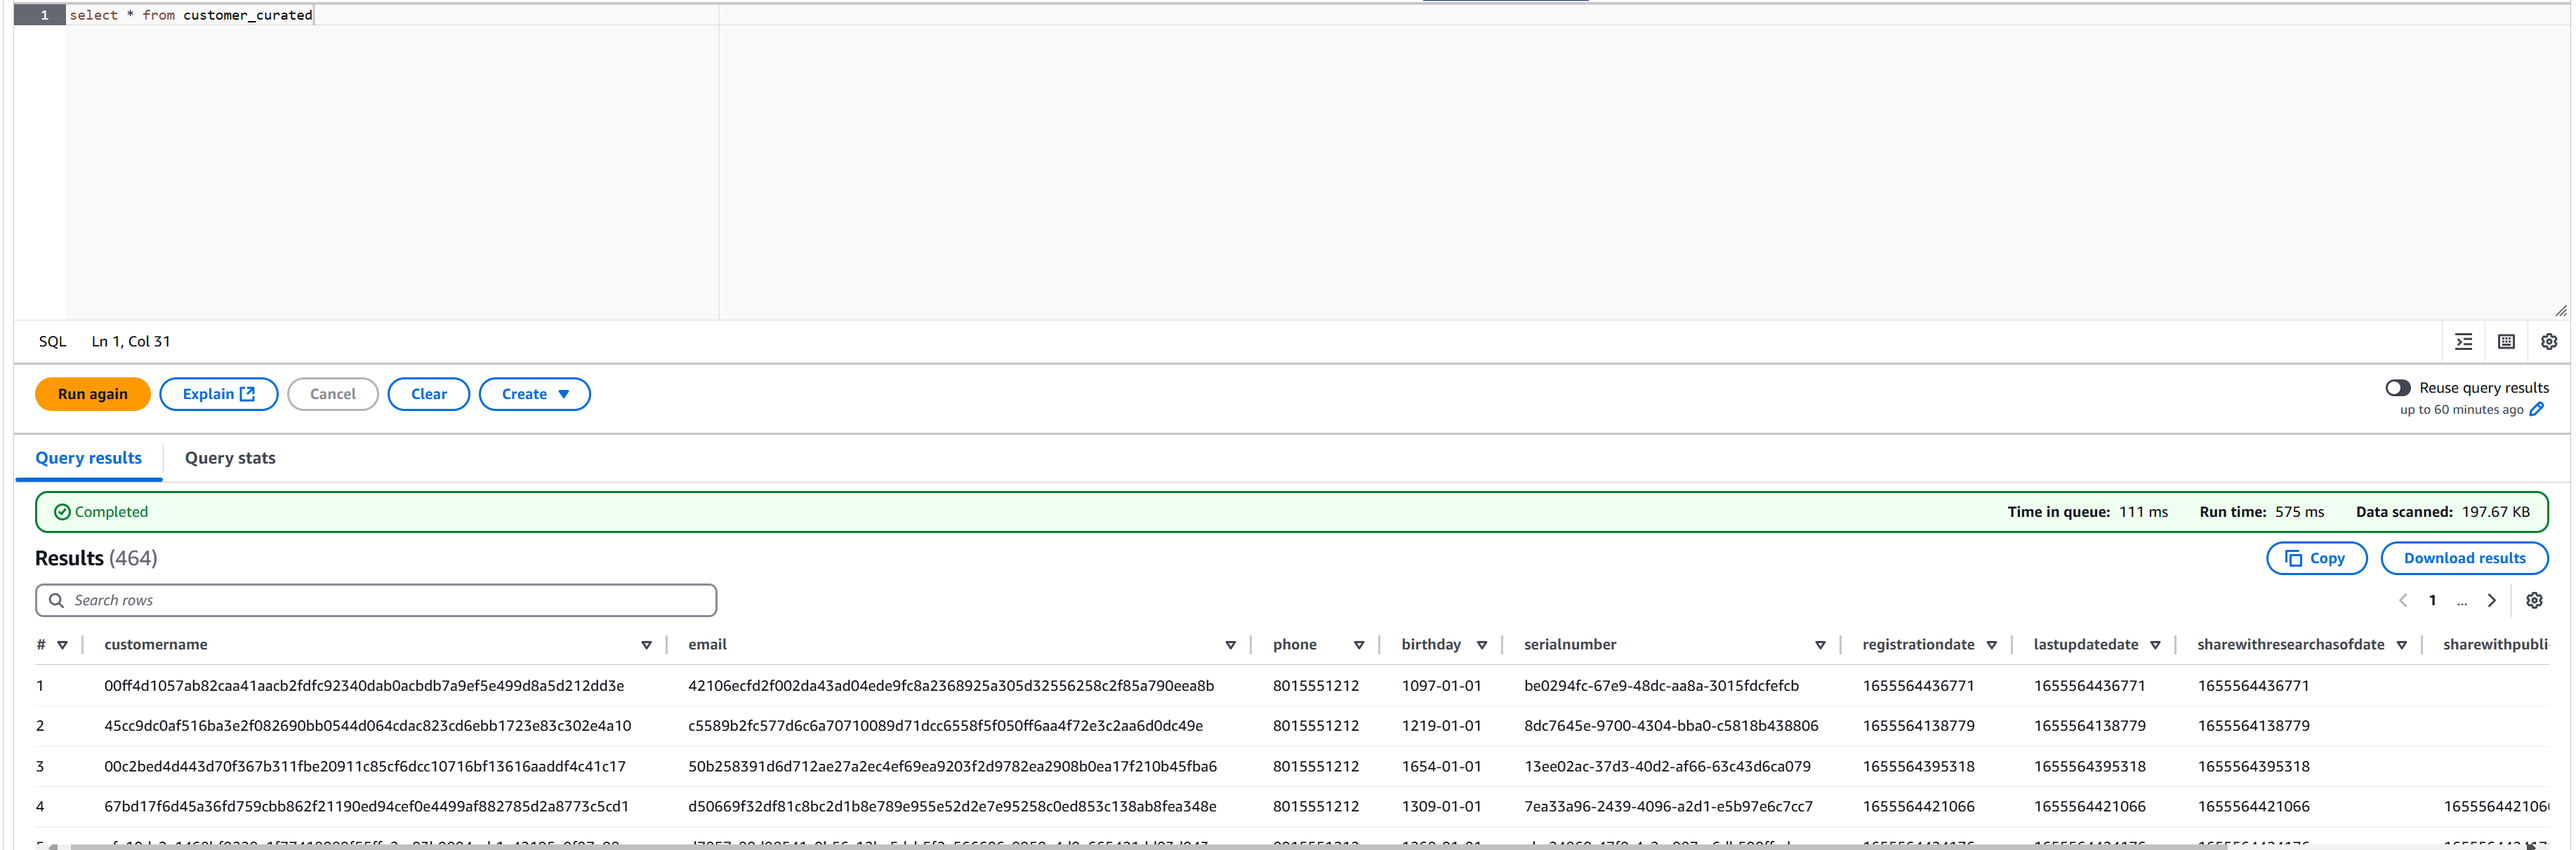
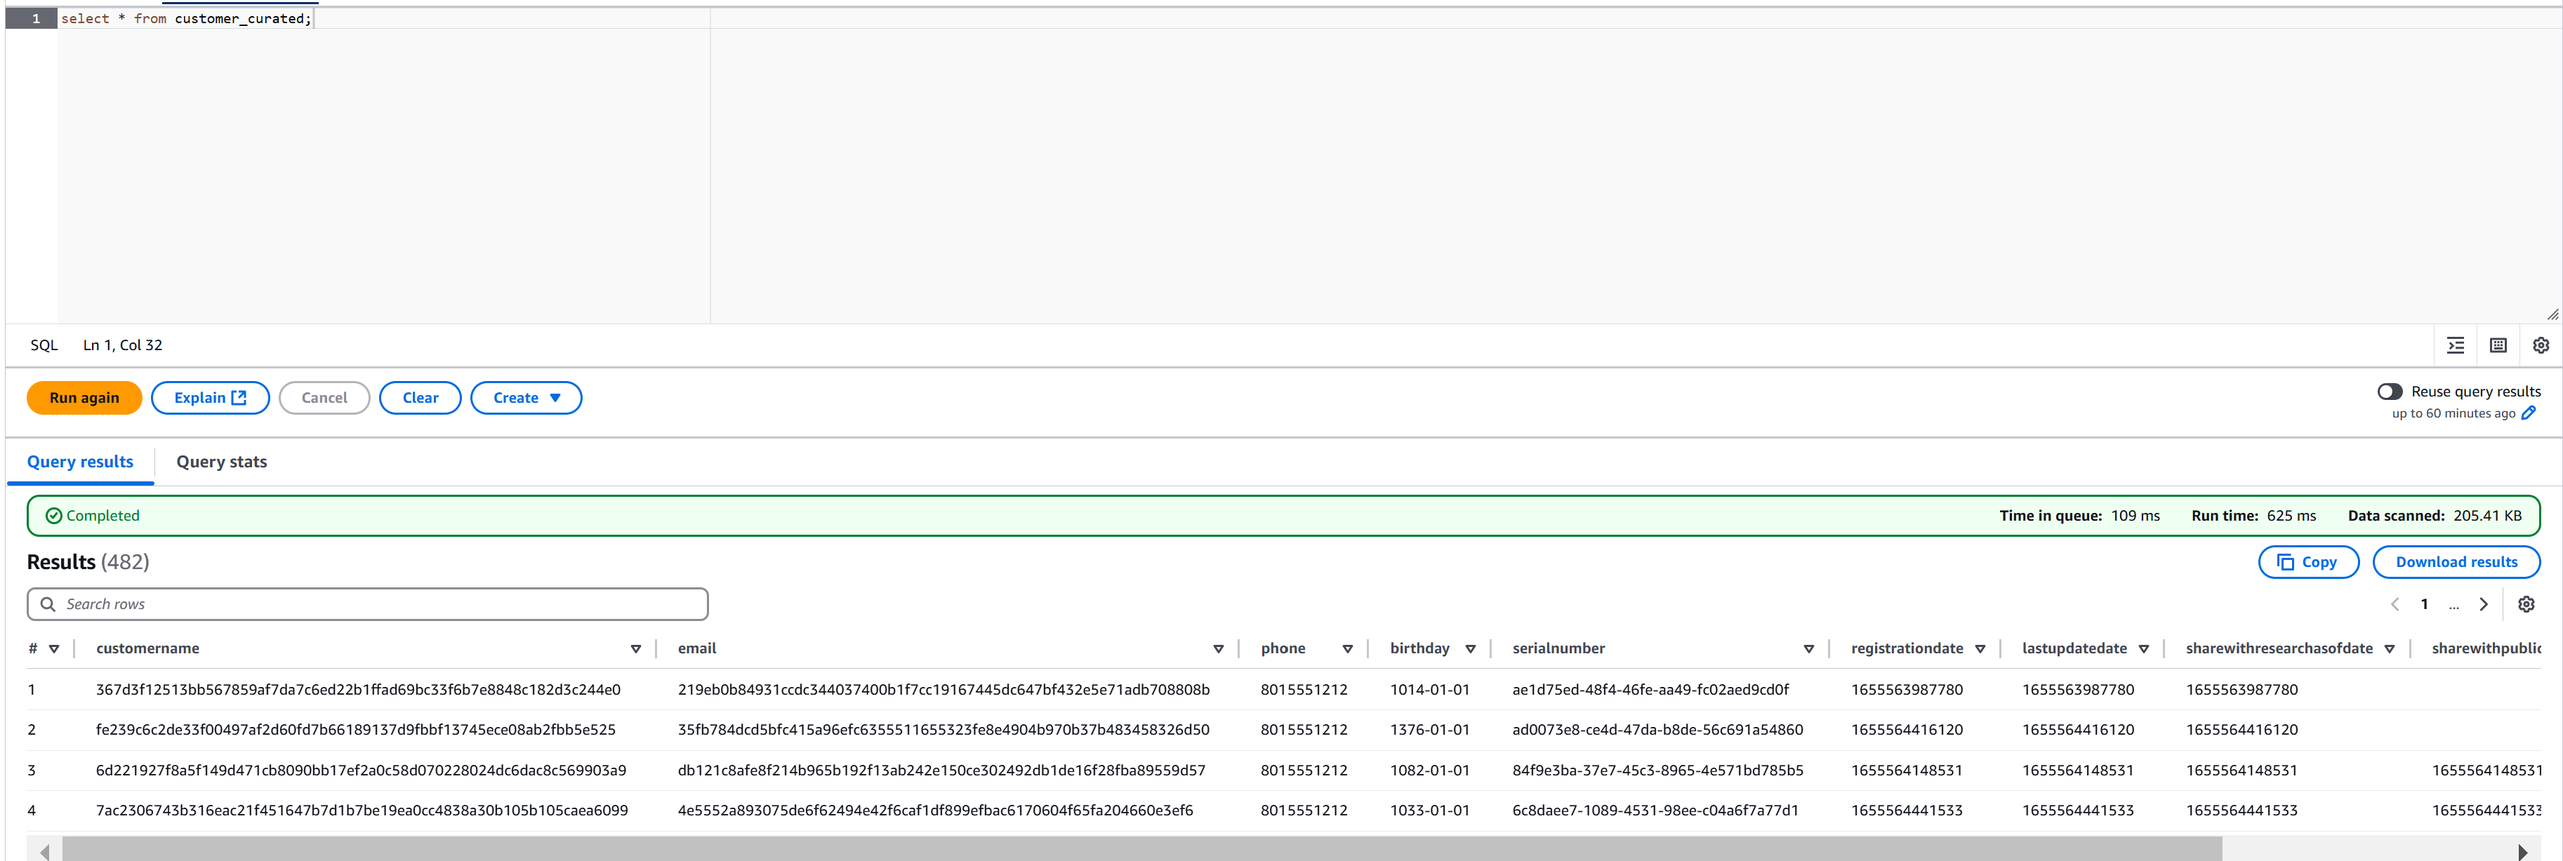
updated logic
Removed unnecessary where and distinct condition from ETL

Changed region(s): [[0.0, 0.0, 1.0, 1.0], [0.0, 0.7937, 0.9055, 1.0], [0.4684, 0.7327, 0.6245, 0.7632]]

diff --git a/STEDI Human Balance Analytics/curated zone/scripts/customer_trusted_to_curated.py b/STEDI Human Balance Analytics/curated zone/scripts/customer_trusted_to_curated.py
@@ -31,7 +31,7 @@ accelerometer_trusted_node1731811414811 = glueContext.create_dynamic_frame.from_
 
 # Script generated for node SQL Query
 SqlQuery0 = '''
-select c.* from customer_trusted c
+select distinct c.* from customer_trusted c
 join accelerometer_trusted a on a.user=c.email
 '''
 SQLQuery_node1731811495750 = sparkSqlQuery(glueContext, query = SqlQuery0, mapping = {"accelerometer_trusted":accelerometer_trusted_node1731811414811, "customer_trusted":customer_trusted_node1731811357535}, transformation_ctx = "SQLQuery_node1731811495750")
@@ -55,15 +55,9 @@ def hashDf(df, keys):
 
 DetectSensitiveData_node1731811780439 = hashDf(SQLQuery_node1731811495750, list(classified_map.keys()))
 
-# Script generated for node SQL Query distinct
-SqlQuery1 = '''
-select distinct * from myDataSource
-'''
-SQLQuerydistinct_node1731863088325 = sparkSqlQuery(glueContext, query = SqlQuery1, mapping = {"myDataSource":DetectSensitiveData_node1731811780439}, transformation_ctx = "SQLQuerydistinct_node1731863088325")
-
 # Script generated for node Amazon S3
 AmazonS3_node1731811833828 = glueContext.getSink(path="s3://stedi-datalake/customer/curated/", connection_type="s3", updateBehavior="UPDATE_IN_DATABASE", partitionKeys=[], enableUpdateCatalog=True, transformation_ctx="AmazonS3_node1731811833828")
 AmazonS3_node1731811833828.setCatalogInfo(catalogDatabase="stedi",catalogTableName="customer_curated")
 AmazonS3_node1731811833828.setFormat("json")
-AmazonS3_node1731811833828.writeFrame(SQLQuerydistinct_node1731863088325)
+AmazonS3_node1731811833828.writeFrame(DetectSensitiveData_node1731811780439)
 job.commit()

diff --git a/STEDI Human Balance Analytics/trusted zone/scripts/accelerometer_landing_to_trusted.py b/STEDI Human Balance Analytics/trusted zone/scripts/accelerometer_landing_to_trusted.py
@@ -28,7 +28,7 @@ accelerometer_landing_node1731804311748 = glueContext.create_dynamic_frame.from_
 SqlQuery0 = '''
 select a.* from accelerometer_landing a
 join customer_landing c on a.user = c.email
-where a.timestamp >= c.sharewithresearchasofdate
+-- where a.timestamp >= c.sharewithresearchasofdate
 '''
 SQLQuery_node1731804349776 = sparkSqlQuery(glueContext, query = SqlQuery0, mapping = {"customer_landing":customer_trusted_node1731804257438, "accelerometer_landing":accelerometer_landing_node1731804311748}, transformation_ctx = "SQLQuery_node1731804349776")
 
